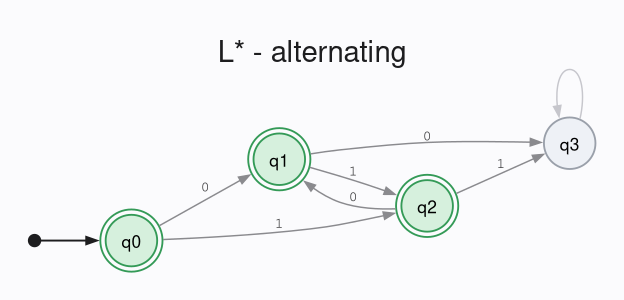
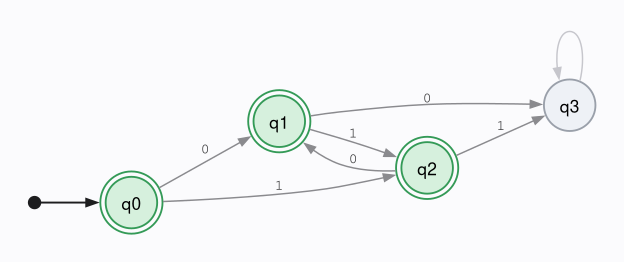
KV cleanup

diff --git a/README.md b/README.md
@@ -13,7 +13,7 @@ Functions return sigma types, so each sub-component of each algorithm provides a
 
 ## Installation
 
-```
+```bash
 # Will install both lstar (the OCaml release) and lstar-rocq (the Rocq theory development)
 opam install lstar
 ```